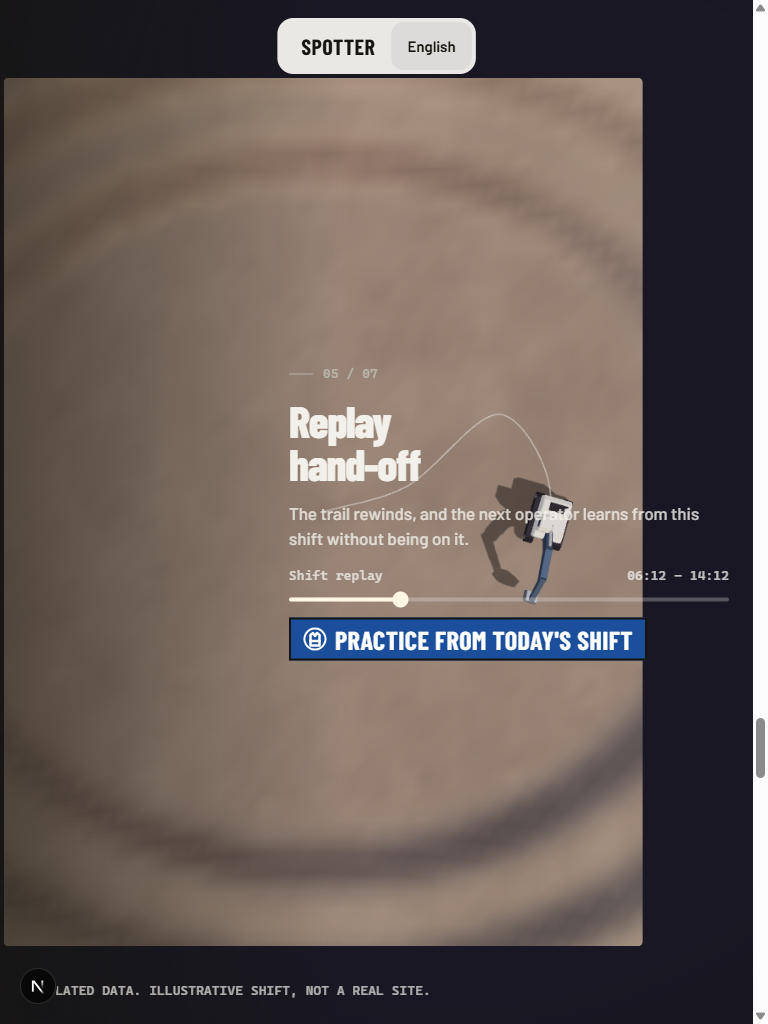
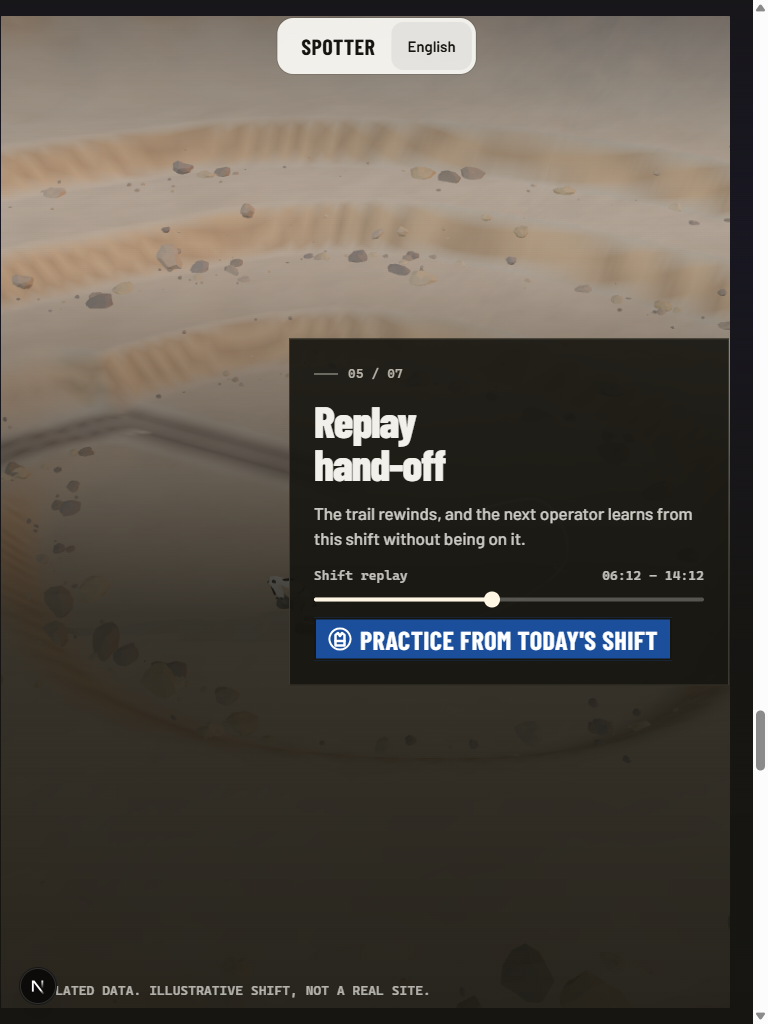
fix(landing): leaders desktop-only, callout shadow, recapture l3v2-page-* on the v2 scene

diff --git a/apps/web/src/components/landing/landing-engine.tsx b/apps/web/src/components/landing/landing-engine.tsx
@@ -112,7 +112,11 @@ export function LandingEngine() {
       }
       const cr = canvas.getBoundingClientRect();
       const pr = pin2.getBoundingClientRect();
-      const mobile = window.innerWidth < 768;
+      // Phones and tablets: the labels sit over or far from the machine, so leaders would only clutter it.
+      if (window.innerWidth < 1100) {
+        leaders.forEach((g) => g.style.setProperty("--vis", "0"));
+        return;
+      }
       const hasIds = a.some((p) => p.id);
       leaders.forEach((g, i) => {
         const p = hasIds ? a.find((q) => q.id === LEADER_ID[i]) : a[LEADER_FALLBACK[i]];
@@ -126,11 +130,11 @@ export function LandingEngine() {
         const r = el.getBoundingClientRect();
         const ax = p.x + cr.left - pr.left;
         const ay = p.y + cr.top - pr.top;
-        const lx = mobile ? r.left - pr.left + 12 : r.left - pr.left - 8;
-        const ly = mobile ? r.bottom - pr.top : r.top - pr.top + 14;
+        const lx = r.left - pr.left - 8;
+        const ly = r.top - pr.top + 14;
         // One elbow: leave the label straight, then run to the anchor, so neighbouring lines stay apart.
-        const ex = mobile ? lx : lx - 28 - i * 10;
-        const ey = mobile ? ly + 10 + i * 6 : ly;
+        const ex = lx - 28 - i * 10;
+        const ey = ly;
         poly.setAttribute("points", `${lx.toFixed(1)},${ly.toFixed(1)} ${ex.toFixed(1)},${ey.toFixed(1)} ${ax.toFixed(1)},${ay.toFixed(1)}`);
         dot.setAttribute("cx", ax.toFixed(1));
         dot.setAttribute("cy", ay.toFixed(1));

diff --git a/apps/web/src/styles/landing.css b/apps/web/src/styles/landing.css
@@ -415,6 +415,7 @@
 }
 
 .callout-t {
+  text-shadow: 0 0 12px color-mix(in srgb, var(--frame) 75%, transparent), 0 1px 3px color-mix(in srgb, var(--frame) 60%, transparent);
   font-family: var(--ff-display);
   font-weight: 600;
   font-size: 22px;
